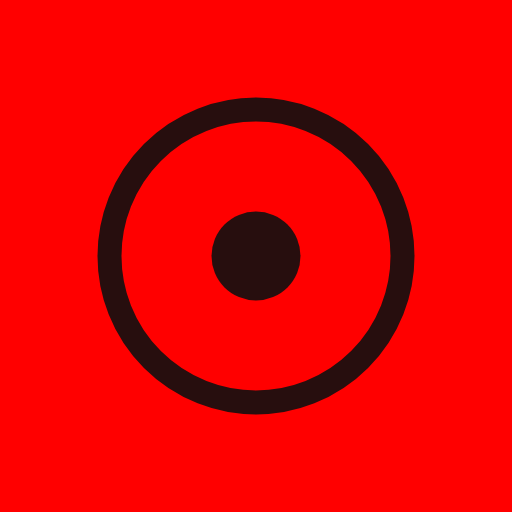
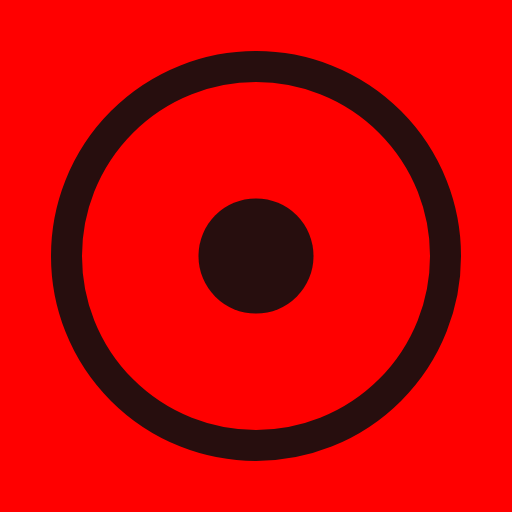
Fill the whole screen when installed, and enlarge the mark
Installed on iOS with a see-through status bar, the page is drawn from the top
of the glass but innerHeight leaves the status bar out. On a Dynamic Island
phone that is 59pt, so the canvas was fitted to 793pt of an 852pt screen: 91%
scale, 14pt of letterbox down each side and 59pt across the bottom, on every
screen. Measured off a screenshot from the phone to a tenth of a point.

Installed, the page is the screen, so its height is taken from the screen
whenever the widths agree (they do not in iPad split view, where the measured
size stays). And since every current iPhone is within a hair of the canvas's
shape, the canvas now fills rather than fits whenever that costs 2% or less:
at most 2pt off the top and bottom, and no hairline of red at the sides.

The home-screen mark goes from 62% of the tile to 80%, the maskable copy to
70% so Android's safe circle still holds all of it.

Claude-Session: https://claude.ai/code/session_01S8NgPudbvbSRgxpEs3YY6m

Changed region(s): [[0.0938, 0.0938, 0.9062, 0.9062], [0.375, 0.375, 0.625, 0.625]]

diff --git a/app.js b/app.js
@@ -527,11 +527,41 @@ const stage = $('stage');
 const backdrop = $('backdrop');
 let scale = 1, offsetY = 0;
 
-function layout() {
+// Opened from the home screen rather than in a browser tab.
+const standalone = navigator.standalone === true ||
+  !!(window.matchMedia && window.matchMedia('(display-mode: standalone)').matches);
+
+// Up to this much of the canvas may be cropped to fill the screen outright rather
+// than leave a hairline of letterbox down the sides.
+const FILL_CROP = 1.02;
+
+function viewSize() {
   const vv = window.visualViewport;
-  const vw = Math.round((vv && vv.width) || window.innerWidth);
-  const vh = Math.round((vv && vv.height) || window.innerHeight);
-  scale = Math.min(vw / 402, vh / 874);
+  const w = Math.round((vv && vv.width) || window.innerWidth);
+  let h = Math.round((vv && vv.height) || window.innerHeight);
+  // Installed on iOS with a see-through status bar, the page is drawn from the very
+  // top of the glass but innerHeight still leaves the status bar out — 59pt short on a
+  // Dynamic Island phone, which shrank the whole canvas to 91% and letterboxed every
+  // screen. Installed, the page *is* the screen, so take the screen's height, but only
+  // when its width agrees: an iPad in split view is narrower than its screen, and the
+  // measured size is the right one there.
+  if (standalone && window.screen) {
+    const short = Math.min(screen.width, screen.height);
+    const long = Math.max(screen.width, screen.height);
+    const sw = h >= w ? short : long;
+    const sh = h >= w ? long : short;
+    if (Math.abs(sw - w) <= 1 && sh > h) h = sh;
+  }
+  return { w, h };
+}
+
+function layout() {
+  const { w: vw, h: vh } = viewSize();
+  const fit = Math.min(vw / 402, vh / 874);
+  const fill = Math.max(vw / 402, vh / 874);
+  // Every current iPhone is within a hair of the canvas's own shape, so filling costs a
+  // point or two off the top and bottom; anything further off is fitted instead.
+  scale = fill / fit <= FILL_CROP ? fill : fit;
   const ox = (vw - 402 * scale) / 2;
   offsetY = (vh - 874 * scale) / 2;
   stage.style.transform = 'translate(' + ox + 'px,' + offsetY + 'px) scale(' + scale + ')';
